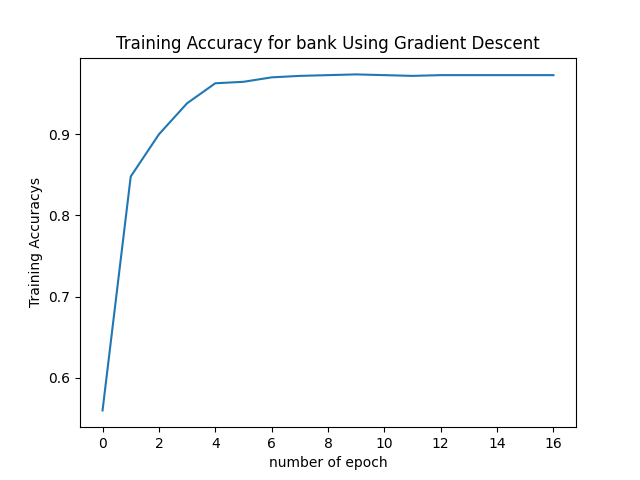
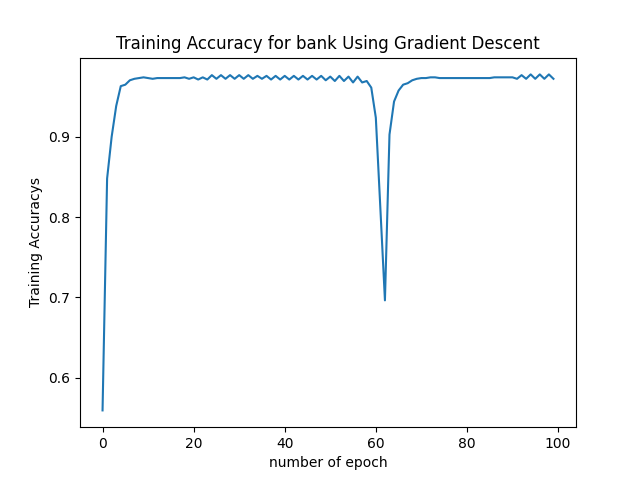
add verbose option for driver

diff --git a/driver.py b/driver.py
@@ -6,15 +6,17 @@ from newton_method import NewtonMethod
 import matplotlib.pyplot as plt
 
 dataset_path = "dataset"
-def driver(mode, epoch_num, dataset_name):
+def driver(mode, epoch_num, dataset_name, verbose):
     x_train, x_test, y_train, y_test = preprocess(dataset_path, dataset_name)
-    print(f'{x_train.shape}\n')
     if mode == "gd":
         gradient_descent = LogisticRegression(learning_rate = 0.1)
         # x_train, y_train = x_train.to_numpy(), y_train.to_numpy()
-        _, [train_accuracies,losses] = gradient_descent.fit(x=x_train, y=y_train, epochs = epoch_num, verbose = True, early_stop=True)
-        test_acc = gradient_descent.test(x_test, y_test)
-        print(f'testing accuracy is: {test_acc}')
+        _, [train_accuracies,losses] = gradient_descent.fit(x=x_train, y=y_train, epochs = epoch_num, verbose = verbose, early_stop=False)
+        if verbose: 
+            test_acc = gradient_descent.test(x_test, y_test)
+            print(f'testing accuracy is: {test_acc}')
+            print(f'highest training accuracy: {max(train_accuracies)}')
+        # plot figure  
         plt.figure()
         plt.title(f'Training Accuracy for {dataset_name} Using Gradient Descent')
         plt.plot(range(len(train_accuracies)), train_accuracies)
@@ -25,9 +27,13 @@ def driver(mode, epoch_num, dataset_name):
     elif mode == "newton":
         newton = NewtonMethod()
         y_train =y_train.to_numpy()
-        _, [train_accuracies,losses] = newton.fit(x=x_train, y=y_train, epoch = epoch_num, verbose = True)
+        _, [train_accuracies,losses] = newton.fit(x=x_train, y=y_train, epoch = epoch_num, verbose = verbose)
+        if verbose: 
+            test_acc = newton.test(x_test, y_test)
+            print(f'testing accuracy is: {test_acc}')
+            print(f'highest training accuracy: {max(train_accuracies)}')
         plt.figure()
-        plt.title(f'Training Accuracy for {dataset_name} Using Gradient Descent')
+        plt.title(f'Training Accuracy for {dataset_name} Using Newton\'s Method')
         plt.plot(range(len(train_accuracies)), train_accuracies)
         plt.xlabel("number of epoch")
         plt.ylabel("Training Accuracys")
@@ -36,7 +42,14 @@ def driver(mode, epoch_num, dataset_name):
         raise Exception(f'Incorrect mode name for driver. Got: {mode}')
 
 if __name__ == "__main__":
+    mode = "newton"
+    epoch_num = 100
+    dataset_name = "bank"
+    verbose = False
+    driver(mode, epoch_num, dataset_name, verbose)
+    
     mode = "gd"
     epoch_num = 100
-    dataset_name = "email"
-    driver(mode, epoch_num, dataset_name)
+    dataset_name = "bank"
+    verbose = False
+    driver(mode, epoch_num, dataset_name, verbose)

diff --git a/newton_method.py b/newton_method.py
@@ -70,7 +70,7 @@ class NewtonMethod():
             self.train_accuracies.append(acc)
             if verbose: print(f'Epoch {i}: loss:{loss}; acc:{acc}\n')
 
-            return [self.weights], [self.train_accuracies, self.losses]
+        return [self.weights], [self.train_accuracies, self.losses]
 
     def test(self, test_x, test_y):
         output = np.matmul(self.weights, test_x.transpose()) 
